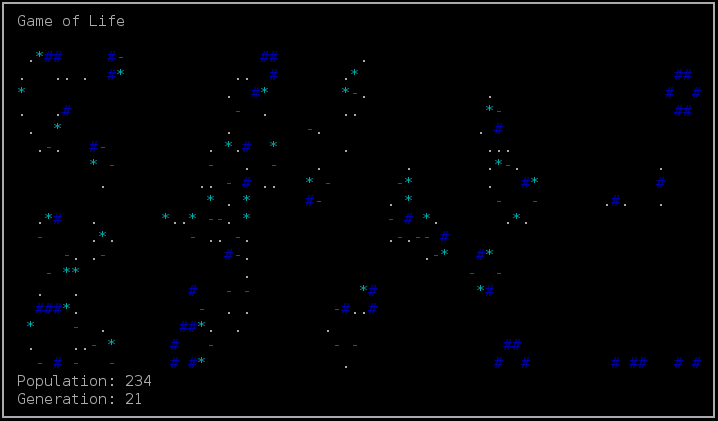
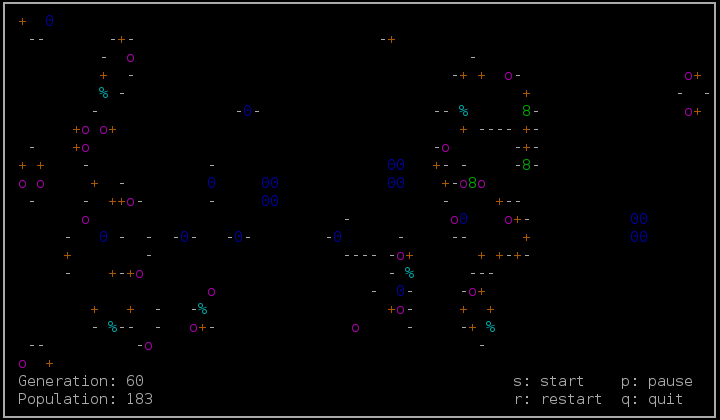
Added toroidal grid

diff --git a/conway/gol.py b/conway/gol.py
@@ -26,13 +26,13 @@ class gol(object):
         self.grid = {}
         self.active = []
         max_h, max_w = self.screen.getmaxyx()
-        if args.f:
+        if args.fullscreen:
             self.height = max_h
             self.width = max_w
         else:
             self.height = min(24, max_h)
             self.width = min(80, max_w)
-        if args.x:
+        if args.no_hud:
             self.y_pad = 0
             self.x_pad = 0
             self.hud_pad = 0
@@ -40,11 +40,11 @@ class gol(object):
         else:
             self.y_pad = 1
             self.x_pad = 1
-            self.hud_pad = 2
+            self.hud_pad = 3
             self.HUD = True
-        self.traditional = args.t
+        self.traditional = args.traditional
         self.y_grid = self.height - self.y_pad - self.hud_pad
-        self.x_grid = self.width - self.x_pad
+        self.x_grid = self.width - self.x_pad - 1
         self.char = ['-', '+', 'o', '%', '8','0']
         if args.n:
             self.initsize = args.n
@@ -118,21 +118,15 @@ class gol(object):
         """
         for cell in self.grid.keys():
             y, x = cell
+            y += self.y_pad
+            x += self.x_pad
+
             if self.traditional:
                 self.win.addch(y, x, '.', curses.color_pair(4))
             else:
                 self.win.addch(y, x, self.char[self.grid[cell] - 1], curses.color_pair(self.grid[cell]))
         self.win.refresh()
         return
-
-    def inGrid(self, cell):
-        """
-        Are we within the grid boundary
-        """
-        y, x = cell
-        if (x < self.x_grid and x >= self.x_pad and y < self.y_grid and y >= self.y_pad):
-            return True
-        return False
 
     def NextGen(self):
         """
@@ -145,17 +139,25 @@ class gol(object):
 
         for cell in self.active:
             y, x = cell
+            y1 = (y - 1) % self.y_grid
+            y2 = (y + 1) % self.y_grid
+            x1 = (x - 1) % self.x_grid
+            x2 = (x + 1) % self.x_grid
             n = self.CountNeighbours(cell)
 
             if n < 2 or n > 3:
                 del grid_cp[cell]
-                self.win.addch(y, x, ' ')
+                self.win.addch(y + self.y_pad, x + self.x_pad, ' ')
             else:
                 grid_cp[cell] = min(self.grid[cell] + 1, self.color_max)
 
-            for neighbour in product([y - 1, y, y + 1], [x - 1, x, x + 1]):
-                if neighbour not in self.active and self.inGrid(neighbour):
+            for neighbour in product([y1, y, y2], [x1, x, x2]):
+                if neighbour not in self.active:
                     if self.CountNeighbours(neighbour) == 3:
+                        y, x = neighbour
+                        y = y % self.y_grid
+                        x = x % self.x_grid
+                        neighbour = y, x
                         grid_cp[neighbour] = 1
 
         self.grid = grid_cp
@@ -167,8 +169,15 @@ class gol(object):
         """
         count = 0
         y, x = cell
+        y = y % self.y_grid
+        x = x % self.x_grid
+        y1 = (y - 1) % self.y_grid
+        y2 = (y + 1) % self.y_grid
+        x1 = (x - 1) % self.x_grid
+        x2 = (x + 1) % self.x_grid
+        cell = y, x
 
-        for neighbour in product([y - 1, y, y + 1], [x - 1, x, x + 1]):
+        for neighbour in product([y1, y, y2], [x1, x, x2]):
             if neighbour in self.active and neighbour != cell:
                 count += 1
         return count
@@ -190,13 +199,13 @@ class gol(object):
         """
         Initialise the game with a predefined set up where the behaviour is deterministic
         """
+        self.grid = {}
+        self.active = []
+
         blinker = [(4, 4), (4, 5), (4, 6)]
         toad = [(9, 5), (9, 6), (9, 7), (10, 4), (10, 5), (10, 6)]
         glider = [(4, 11), (5, 12), (6, 10), (6, 11), (6, 12)]
         r_pentomino = [(10, 60), (9, 61), (10, 61), (11, 61), (9, 62)]
-
-        self.grid = {}
-        self.active = []
 
         for cell in chain(blinker, toad, glider, r_pentomino):
             self.grid[cell] = 1
@@ -211,9 +220,6 @@ class gol(object):
         self.win.clear()
 
         while self.state == 'run':
-            if __TESTING__ and self.current_gen == 100:
-                self.state = 'stop'
-                break
             if self.HUD: self.DrawHUD()
             self.DrawGrid()
             self.NextGen()
@@ -223,7 +229,6 @@ class gol(object):
             if self.change_gen[0] == self.change_gen[2]:
                 self.state = 'stop'
                 break
-            # Handle input
             key = self.win.getch()
             if key == ord('q'):
                 return

diff --git a/README.md b/README.md
@@ -4,14 +4,15 @@ game-of-life
 A python implementation of [Conway's Game of Life](http://en.wikipedia.org/wiki/Conway's_Game_of_Life) using the curses module.
 
     $ ./gol --help
-    usage: gol [-h] [-f] [-x] [-r R] [-n N]
+    usage: gol [-h] [-f] [-x] [-t] [-r refresh_rate] [-n initial_points]
 
     optional arguments:
-    -h, --help  show this help message and exit
-    -f          Display fullscreen grid
-    -x          Don't display HUD
-    -r R        Set the refresh rate
-    -n N        Set the number of initial points
+    -h, --help         show this help message and exit
+    -f, --fullscreen   display fullscreen grid
+    -x, --no_hud       don't display HUD
+    -t, --traditional  traditional mode
+    -r refresh_rate    set the refresh rate
+    -n initial_points  set the number of initial points
 
 Screenshot
 ==========
